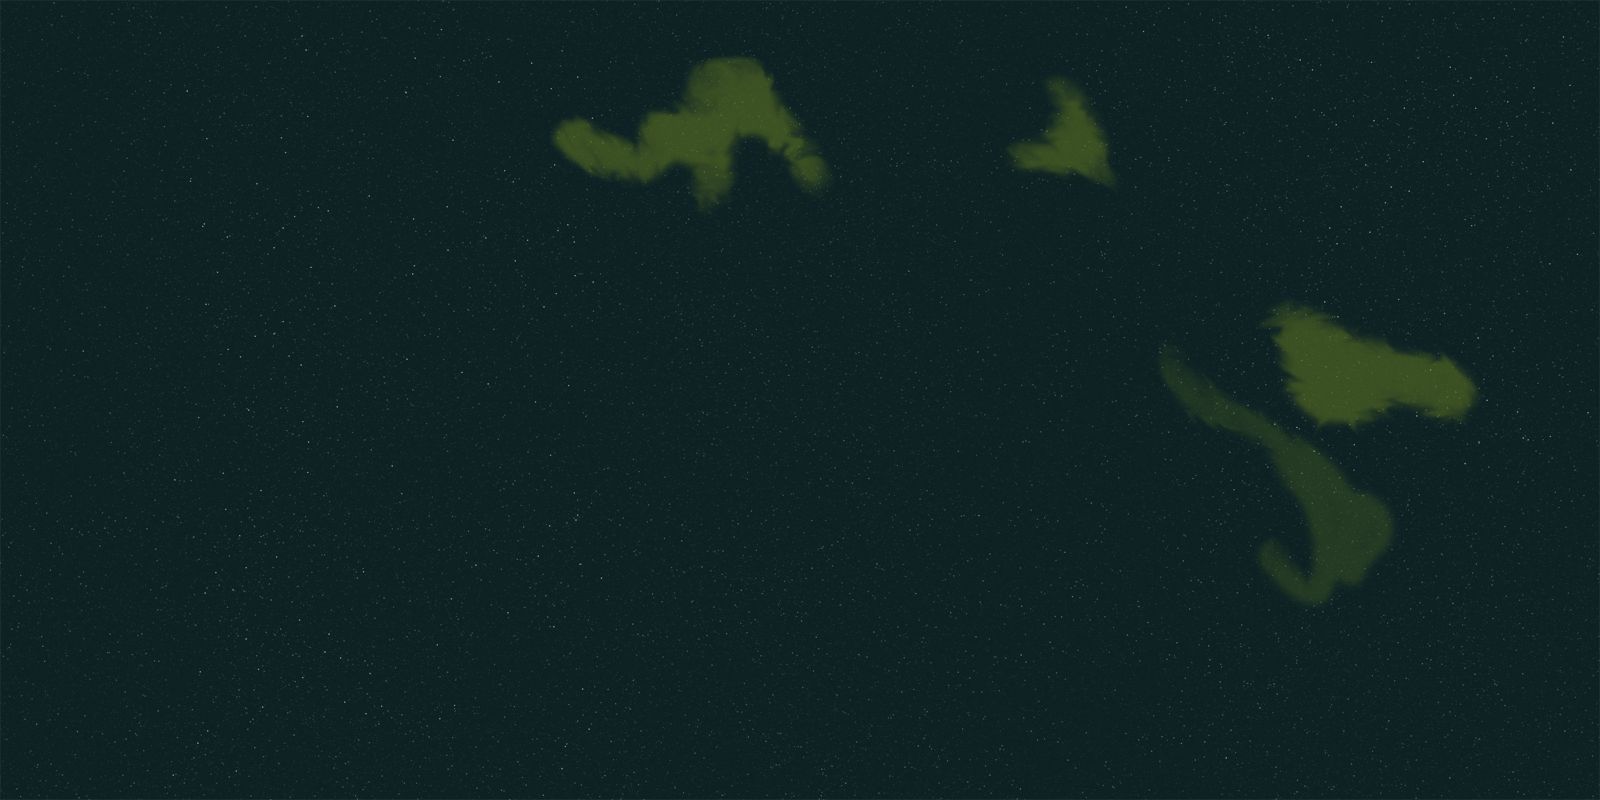
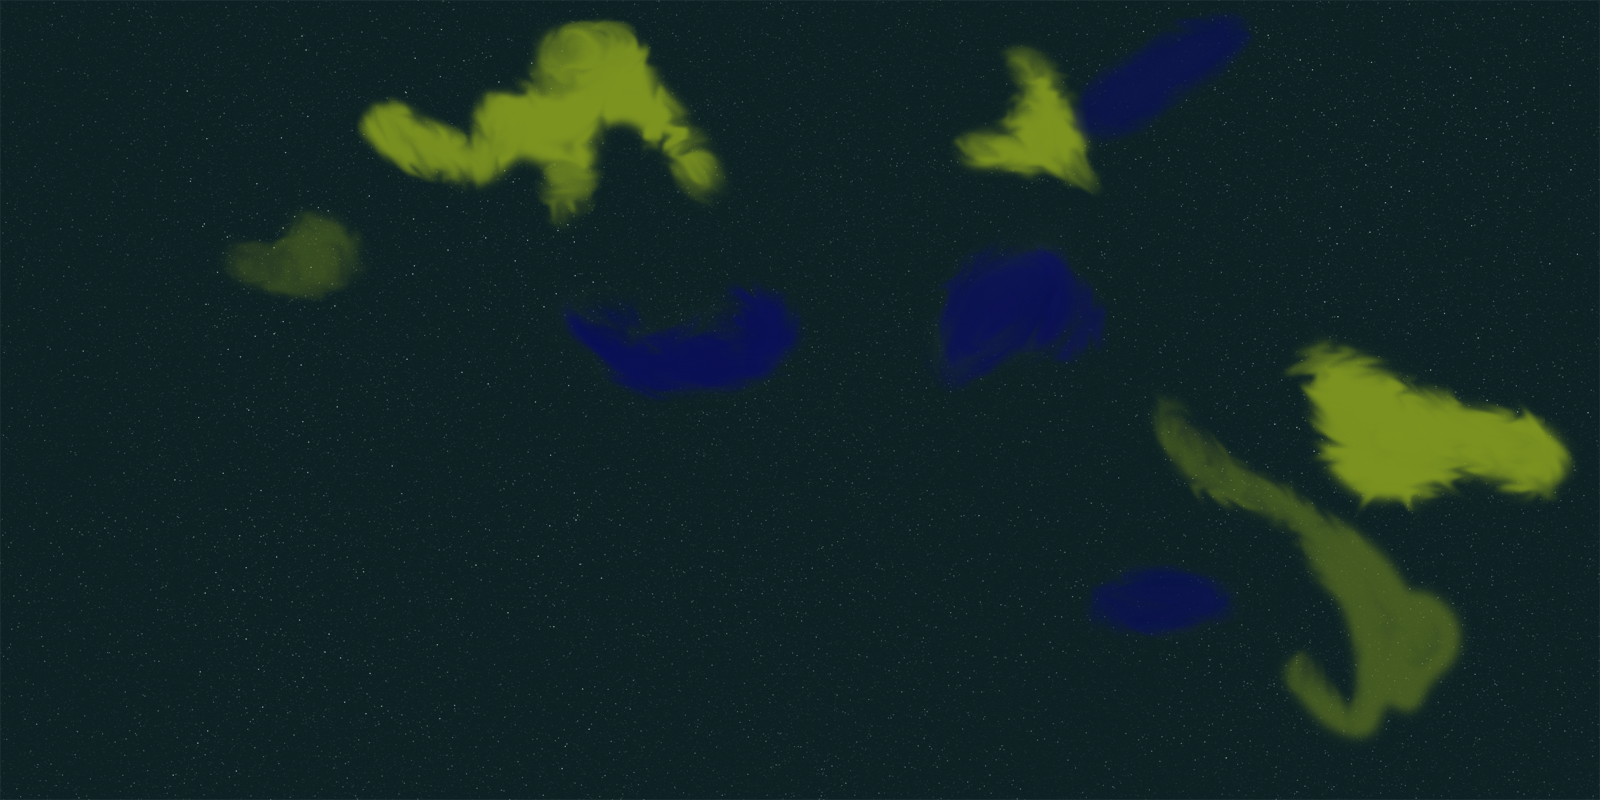
finished hopefully

diff --git a/Three01.js b/Three01.js
@@ -30,6 +30,12 @@ var hurtbox;
 var life = 3
 var hp;
 var enemySpeed = 0.1
+var sphere2;
+var destroyed = false
+var dX
+var dY
+var dZ
+var texControl = 1
 
 // once everything is loaded, we run our Three.js stuff
 window.onload = function init() {
@@ -75,7 +81,6 @@ window.onload = function init() {
 
     scoreText = document.createElement('div');
     scoreText.style.position = 'absolute';
-    //scoreText.style.zIndex = 1;    // if you still don't see the label, try uncommenting this
     scoreText.style.width = 100;
     scoreText.style.height = 100;
     scoreText.style.color = "white";
@@ -84,6 +89,21 @@ window.onload = function init() {
     scoreText.style.left = 50 + 'px';
     scoreText.className = "khtext"
     document.body.appendChild(scoreText);
+
+
+    //change texture
+
+    var text = document.createElement('div');
+    text.style.position = 'absolute';
+    text.style.width = 100;
+    text.style.height = 100;
+    text.style.color = "white";
+    text.innerHTML = "Press 1 to change space texture";
+    text.style.top = 650 + 'px';
+    text.style.left = 50 + 'px';
+    text.className = "khtext"
+    document.body.appendChild(text);
+
 
     //Plate Rock
 
@@ -120,7 +140,8 @@ window.onload = function init() {
 
     scene.add(hp)
     hp.position.x = 15
-    hp.position.y = -8
+    hp.position.y = -7
+    hp.position.z = 2
     hp.rotateX(-0.2)
     console.log(window.innerWidth)
     scene.add(levelPivot)
@@ -263,10 +284,10 @@ function createGummi() {
 
     //hurtbox
 
-    var geometry = new THREE.BoxGeometry(6, 4.5, 7.5);
+    var geometry = new THREE.BoxGeometry(6, 4.5, 6);
     var material = new THREE.MeshBasicMaterial({ color: 0xffffff, transparent: true, opacity: 0 });
     hurtbox = new THREE.Mesh(geometry, material);
-    hurtbox.position.set(0, 0, 2.3)
+    hurtbox.position.set(0, 0, 2.5)
 
     gummiPivot.add(hurtbox)
 
@@ -355,6 +376,11 @@ function spawnEnemy() {
             scene.remove(enemies[i])
             enemies.splice(i, 1)
             enemyBoxes.splice(i, i)
+            if (score > 0) {
+                score -= 2
+            }
+
+            scoreText.innerHTML = "Score: " + score;
         }
 
     }
@@ -381,7 +407,9 @@ function handleKeyDown(event) {
     var char = String.fromCharCode(event.keyCode);
     switch (char) {
         case "1":
-            camera.position.z += 0.1
+            console.log("entrou")
+            texControl = -texControl
+            changeTex()
             break;
         case "A":
             moving = true
@@ -566,14 +594,13 @@ function createWing() {
 
 function createSpace() {
     var geometry = new THREE.SphereGeometry(80, 32, 32);
-    var texture = new THREE.TextureLoader().load("galaxy_starfield.png")
+    var texture = new THREE.TextureLoader().load("teste.png")
     var material = new THREE.MeshBasicMaterial({ map: texture });
     material.side = THREE.BackSide
 
     sphere = new THREE.Mesh(geometry, material);
-
-
     scene.add(sphere);
+    scene.add(sphere2);
 }
 
 function createShoot() {
@@ -654,12 +681,17 @@ function createShoot() {
             for (let j = 0; j < enemies.length; j++) {
                 if (shotBoxes[i].intersectsBox(enemyBoxes[j])) {
 
+                    dX = enemies[j].position.x
+                    dY = enemies[j].position.y
+                    dZ = enemies[j].position.z
                     scene.remove(enemies[j])
                     enemies.splice(j, 1)
                     enemyBoxes.splice(j, 1)
                     score += 10
                     scoreText.innerHTML = "Score: " + score;
                     console.log(score)
+                    destroyed = true
+                    destroyCounter = 0
                 }
 
             }
@@ -684,8 +716,10 @@ function createShoot() {
 
 let countFramesTrail = 0
 let countFramesTrail2 = 0
+let countFramesTrail3 = 0
 let trails = []
 let trails2 = []
+let trails3 = []
 
 function fireLeft() {
     if (countFramesTrail > 5) {
@@ -797,7 +831,11 @@ function fireRight() {
 
 function animate() {
 
-   
+
+    if (destroyed == true) {
+        destroy(dX, dY, dZ)
+    }
+
 
 
 
@@ -852,12 +890,13 @@ function updateHP() {
             scene.add(hp)
             break;
         case 0:
-            var geometry = new THREE.PlaneGeometry(40, 35, 32);
+            var geometry = new THREE.PlaneGeometry(20, 15, 32);
             var texture = new THREE.TextureLoader().load("gameover.png")
             var material = new THREE.MeshBasicMaterial({ map: texture, transparent: true });
             var over = new THREE.Mesh(geometry, material);
-            over.position.z = 2.1
             scene.add(over)
+            scene.remove(gummiPivot)
+            scene.remove(sphere)
             break;
         default:
             break;
@@ -872,4 +911,79 @@ function onWindowResize() {
 
 }
 
+
+
+
+
 window.addEventListener("resize", onWindowResize, false)
+
+
+let destroyCounter = 0;
+
+function destroy(x, y, z) {
+    if (destroyCounter < 100) {
+        console.log("countframetrails:" + countFramesTrail3)
+        if (countFramesTrail3 > 5) {
+
+            // console.log("entrou")
+            for (let i = 0; i < 5; i++) {
+                //console.log("entra objetos")
+                var geometry = new THREE.SphereGeometry(1, 8, 8);
+                var material = new THREE.MeshBasicMaterial({ color: 0xFFC723 });
+
+                var sphere1 = new THREE.Mesh(geometry, material);
+
+                sphere1.position.x = x
+                sphere1.position.y = y
+                sphere1.position.z = z
+
+
+                scene.add(sphere1)
+                sphere1.scale.set(0.2, 0.2, 0.2)
+
+                let vX = Math.random() * (0.1 - -0.1) + -0.1
+                let vY = Math.random() * (0.1 - -0.1) + -0.1
+                let vZ = Math.random() * (0.1 - -0.1) + -0.1
+
+                trails3.push({ sphere: sphere1, vx: vX, vy: vY, vz: vZ })
+
+            }
+            countFramesTrail3 = 0
+        }
+
+        trails3.forEach((trail, i) => {
+
+            trail.sphere.position.z += trail.vz
+            trail.sphere.position.x += trail.vx
+            trail.sphere.position.y += trail.vy
+
+            /*  if (trail.sphere.position.x < -1.85 || trail.sphere.position.x > 1.85 || trail.sphere.position.y < -1.85 || trail.sphere.position.y > 1.85 || trail.sphere.position.z < -1.85 || trail.sphere.position.z> 1.85 ) {
+     
+                 scene.remove(trails3[i].sphere)
+                 trails3.splice(i, 1)
+                 
+                 i--
+             } */
+        });
+
+        countFramesTrail3 += 1
+        destroyCounter++
+    }
+
+    else {
+        trails3.forEach((trail, i) => {
+            scene.remove(trails3[i].sphere)
+            trails3.splice(i, 1)
+        });
+
+        //destroyed = false
+    }
+}
+
+function changeTex(){
+    if(texControl == -1)
+    sphere.material.map = new THREE.TextureLoader().load("galaxy_starfield.png")
+
+    if(texControl == 1)
+    sphere.material.map = new THREE.TextureLoader().load("teste.png")
+}
